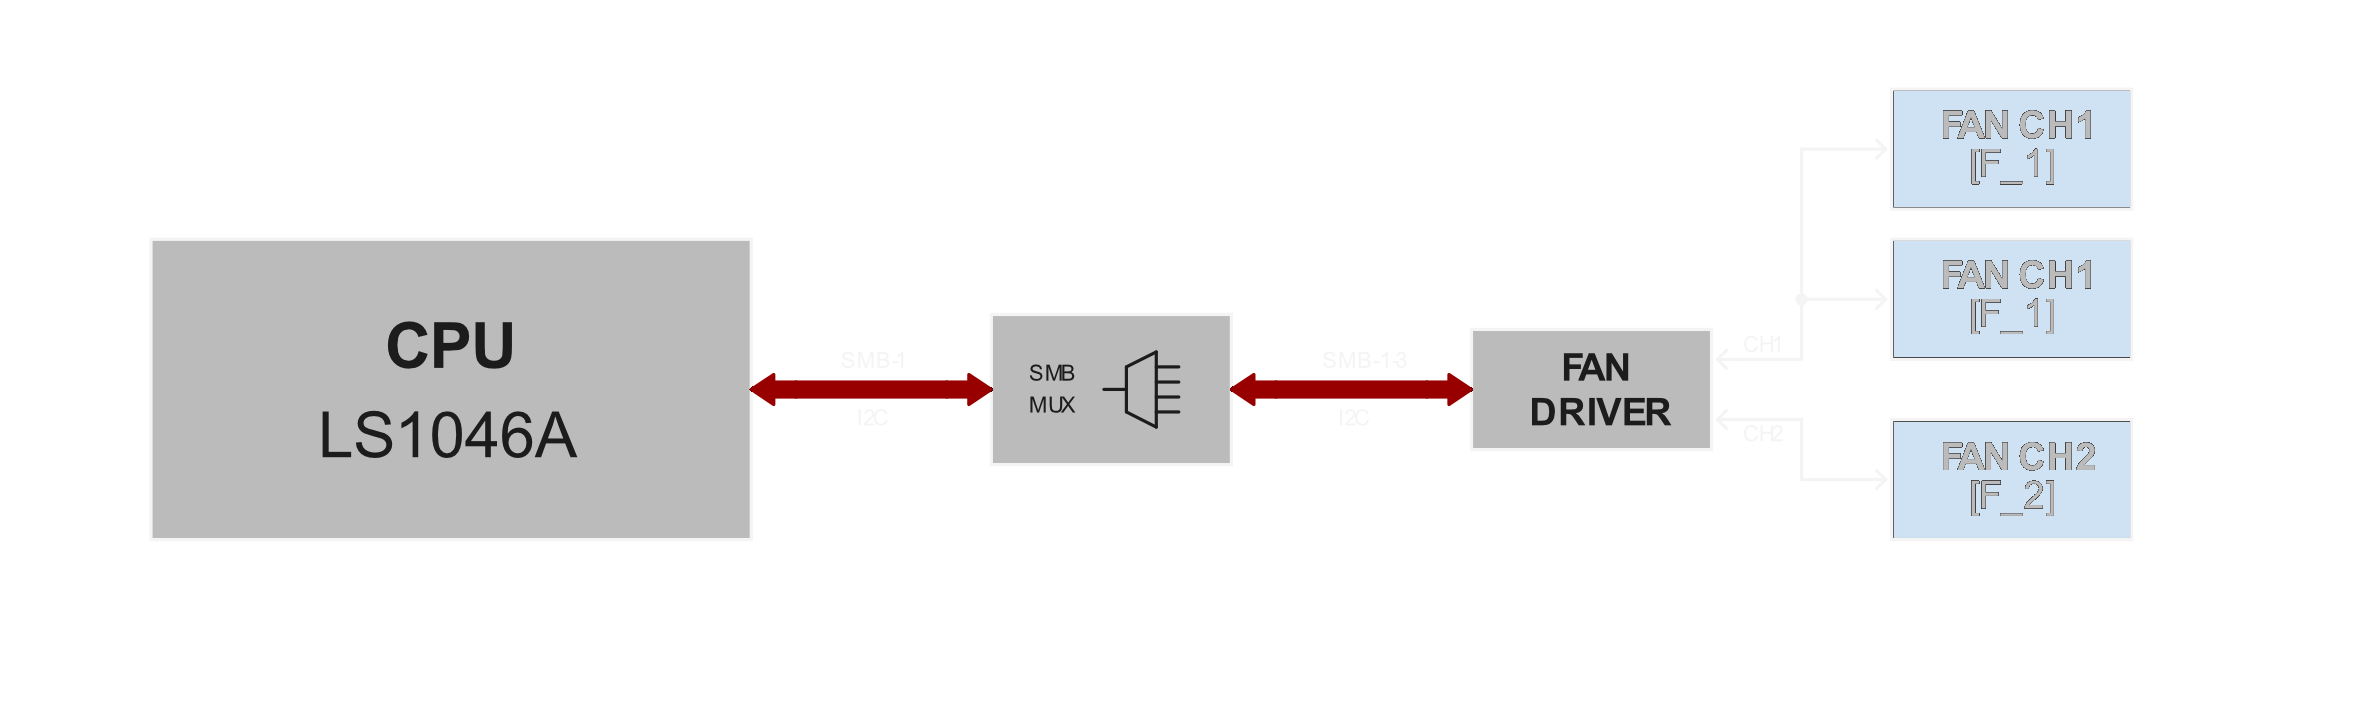
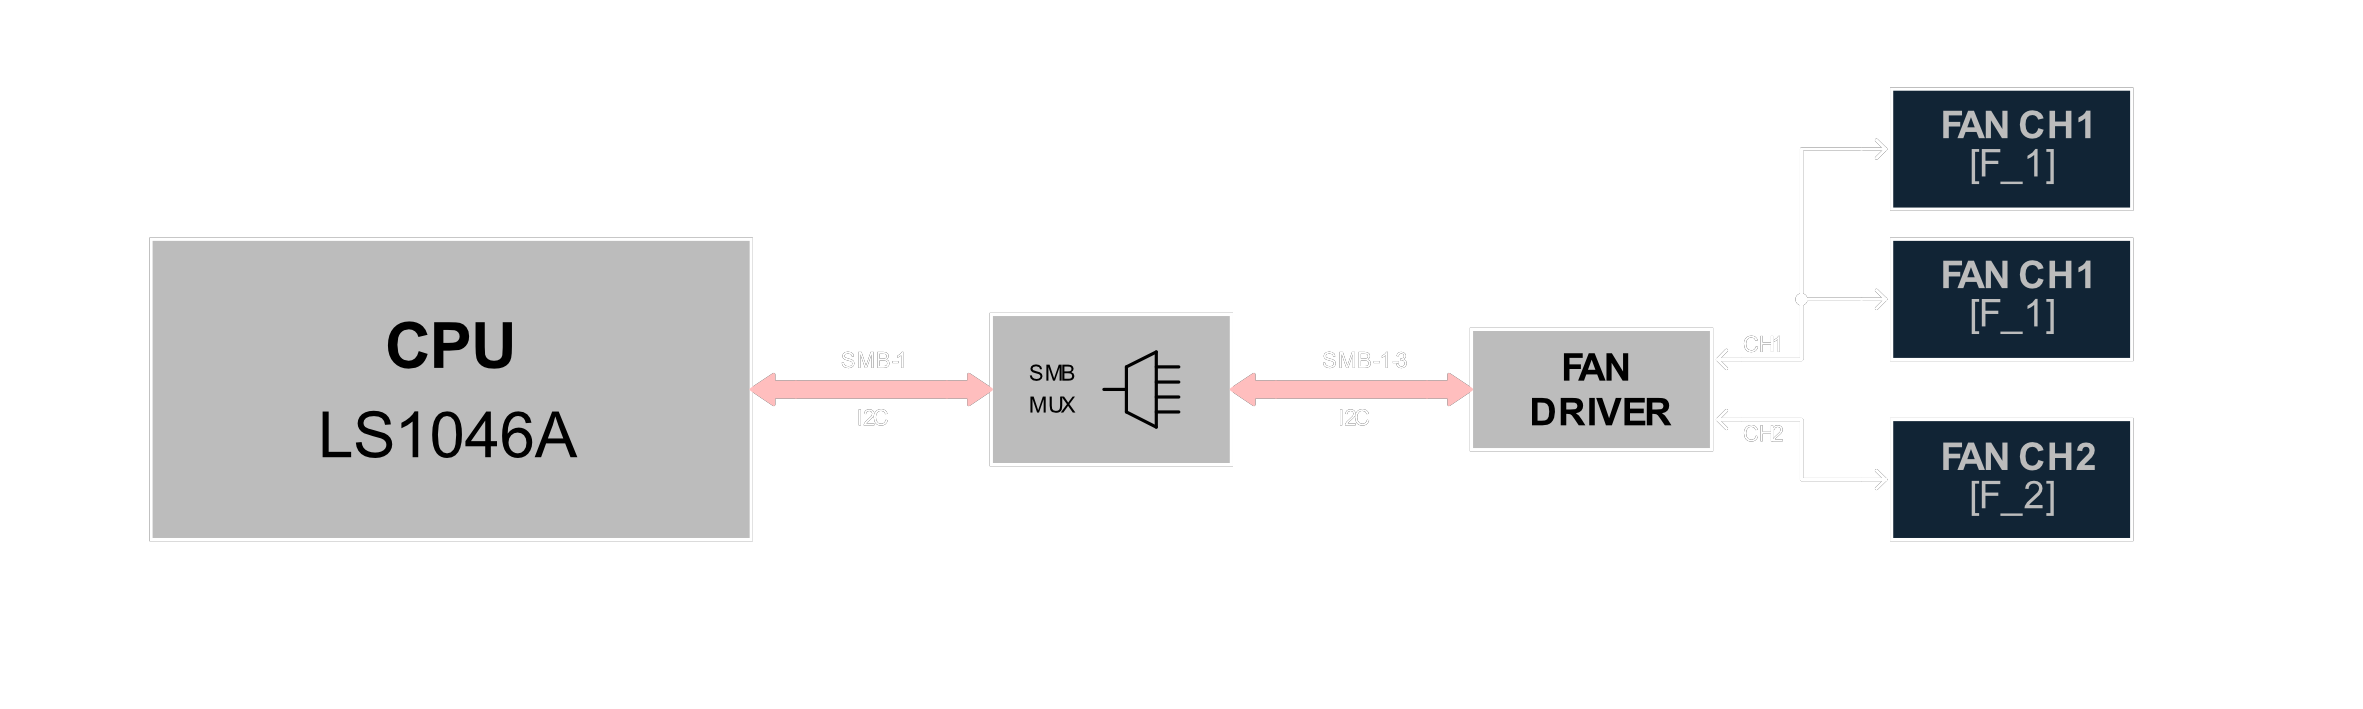
docs: use reviewed dark image variants

diff --git a/gateway-development-kit/hardware-description.md b/gateway-development-kit/hardware-description.md
@@ -275,8 +275,7 @@ If the battery is removed or fully discharged, the RTC will lose its stored time
 **WARNING** Do not use force to remove the battery from its holder.
 :::
 
-<img class="theme-asset--light" src="/assets/development-kit-RTC-battery-remove.png" alt="RTC battery remove procedure" />
-<img class="theme-asset--dark" src="/assets/development-kit-RTC-battery-remove-dark.png" alt="RTC battery remove procedure" />
+![RTC battery remove procedure](/assets/development-kit-RTC-battery-remove.png)
 
 To replace the battery, the PCB must first be removed from the enclosure. Follow the disassembly instructions provided below.
 
@@ -294,11 +293,9 @@ Before disassembling the device, ensure that proper ESD safety precautions are f
 
 Torx T10 screwdriver
 
-<img class="theme-asset--light" src="/assets/development-kit-assembly-instruction-cover.png" alt="Development Kit disassembly instructions - cover" />
-<img class="theme-asset--dark" src="/assets/development-kit-assembly-instruction-cover-dark.png" alt="Development Kit disassembly instructions - cover" />
+![Development Kit disassembly instructions - cover](/assets/development-kit-assembly-instruction-cover.png)
 
-<img class="theme-asset--light" src="/assets/development-kit-assembly-instruction-pcb.png" alt="Development Kit disassembly instructions - PCB" />
-<img class="theme-asset--dark" src="/assets/development-kit-assembly-instruction-pcb-dark.png" alt="Development Kit disassembly instructions - PCB" />
+![Development Kit disassembly instructions - PCB](/assets/development-kit-assembly-instruction-pcb.png)
 
 #### Steps
 

diff --git a/gateway-development-kit/boot-process.md b/gateway-development-kit/boot-process.md
@@ -3,8 +3,6 @@ title: "Boot Process — General Description"
 section: "Gateway development kit"
 order: 6
 ---
-<link rel="stylesheet" href="/assets/theme-assets.css" />
-
 This document gives a general description of the boot process of the Mono Gateway Development Kit.
 
 The boot data is in one of 2 memory devices:
@@ -13,8 +11,7 @@ The boot data is in one of 2 memory devices:
 
 The DIP switch on the board tells the processor which device will be used.
 
-<img class="theme-asset--light" src="/assets/boot-process-light.svg" alt="The boot stages and the boot device" />
-<img class="theme-asset--dark" src="/assets/boot-process.svg" alt="The boot stages and the boot device" />
+![The boot stages and the boot device](/assets/boot-process.svg)
 
 *The boot stages and the boot device*
 

diff --git a/gateway-development-kit/getting-started.md b/gateway-development-kit/getting-started.md
@@ -177,8 +177,7 @@ apk add <package>
 
 Updating the whole system is handled by Attended Sysupgrade — see [Installing OpenWrt → Updating](/gateway-development-kit/installing-openwrt/).
 
-<img class="theme-asset--light" src="/assets/initial-luci-login-light.png" alt="LuCI login" height="50%" width="50%" />
-<img class="theme-asset--dark" src="/assets/initial-luci-login.png" alt="LuCI login" height="50%" width="50%" />
+<img src="/assets/initial-luci-login.png" alt="LuCI login" height="50%" width="50%" />
 
 **Installing an alternative OS**
 
